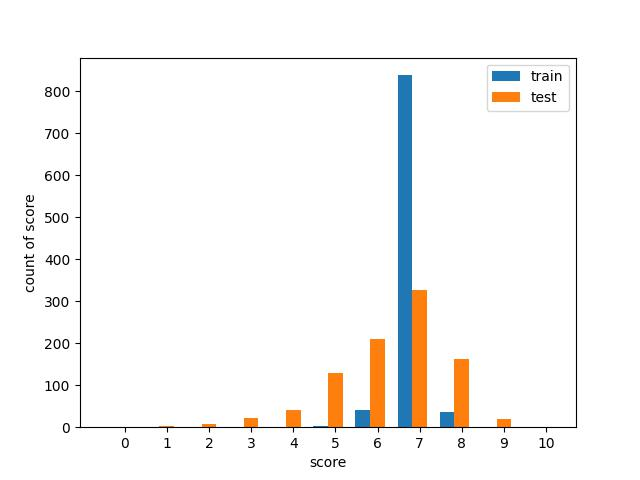
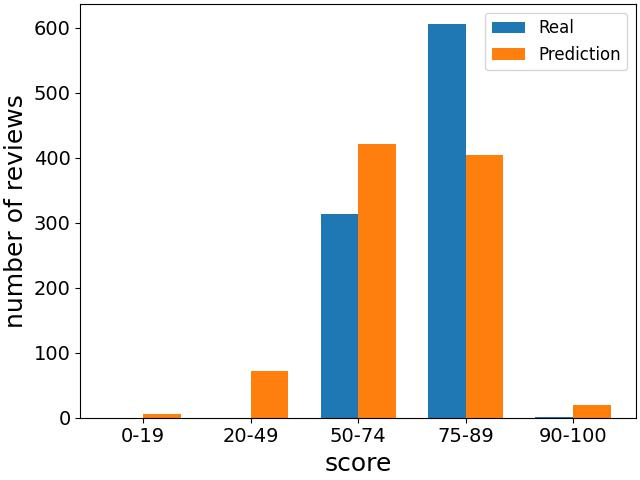
update bayes and rf

diff --git a/bayes.py b/bayes.py
@@ -1,10 +1,14 @@
+from math import pi
+import pickle
+import os
 import numpy as np
 import matplotlib.pyplot as plt
+from numpy.lib.npyio import save
 from lib.loader import get_data
 from lib.utils.common import calculate_distribution
-from sklearn.naive_bayes import MultinomialNB
+from sklearn.linear_model import BayesianRidge
 from sklearn.model_selection import KFold
-from sklearn.metrics import accuracy_score, mean_absolute_error
+from sklearn.metrics import mean_absolute_error
 
 # Formatting
 
@@ -20,13 +24,12 @@ x, y, names = get_data()
 kFold = KFold()
 
 
-def run_model(alpha, draw_plot=False):
-    model = MultinomialNB(alpha=alpha)
+def run_model(alpha_1=1e-6, alpha_2=1e-6, lambda_1=1e-6, lambda_2=1e-6, draw_plot=False):
+    model = BayesianRidge(alpha_1=alpha_1, alpha_2=alpha_2,
+                          lambda_1=lambda_1, lambda_2=lambda_2)
 
     mean_average_error_train = 0
     mean_average_error_test = 0
-    accuracy_train = 0
-    accuracy_test = 0
 
     for train_idx, test_idx in kFold.split(x):
         x_train = x[train_idx]
@@ -37,72 +40,108 @@ def run_model(alpha, draw_plot=False):
         model.fit(x_train, y_train)
 
         y_pred = model.predict(x_train)
-        mean_average_error_train = mean_average_error_train + mean_absolute_error(y_pred, y_train)
-        accuracy_train = accuracy_train + accuracy_score(y_pred, y_train)
+        mean_average_error_train = mean_average_error_train + \
+            mean_absolute_error(y_pred, y_train)
 
         y_pred = model.predict(x_test)
-        mean_average_error_test = mean_average_error_test + mean_absolute_error(y_pred, y_test)
-        accuracy_test = accuracy_test + accuracy_score(y_pred, y_test)
+        mean_average_error_test = mean_average_error_test + \
+            mean_absolute_error(y_pred, y_test)
 
     mean_average_error_train = mean_average_error_train / 5
-    mean_accuracy_train = accuracy_train / 5
-
     mean_average_error_test = mean_average_error_test / 5
-    mean_accuracy_test = accuracy_test / 5
 
     if draw_plot:
         plt.xlabel('score')
-        plt.ylabel('count of score')
+        plt.ylabel('number of reviews')
 
-        distribution = calculate_distribution(y_pred)
+        distribution, xticklables = calculate_distribution(y_pred)
         bar_range = np.array(range(len(distribution)))
-        plt.bar(bar_range-0.35/2, distribution, width=0.35,
-                label='train', tick_label=range(len(distribution)))
+        plt.bar(bar_range-0.35/2, distribution, width=0.35, label='Real')
 
-        distribution = calculate_distribution(y_test)
-        plt.bar(bar_range+0.35/2, distribution, width=0.35,
-                label='test', tick_label=range(len(distribution)))
+        distribution, xticklables = calculate_distribution(y_test)
+        bar_range = np.array(range(len(distribution)))
+        plt.bar(bar_range+0.35/2, distribution, width=0.35, label='Prediction')
 
+        plt.xticks(bar_range, xticklables)
         plt.legend()
-        plt.savefig('images/bayes_alpha=%g.jpg' % alpha)
+
+        plt.savefig('images/bayes.jpg')
         plt.clf()
 
-    return mean_average_error_train, mean_accuracy_train, mean_average_error_test, mean_accuracy_test
+
+    return mean_average_error_train, mean_average_error_test
 
 
 def main():
-    run_model(0, True)
-    run_model(0.02, True)
-    run_model(0.5, True)
-    run_model(1, True)
-    run_model(10, True)
-    run_model(100, True)
+    # alpha 1
+    alpha_1 = np.linspace(0, 100)
+    mean_average_error_train = np.zeros_like(alpha_1)
+    mean_average_error_test = np.zeros_like(alpha_1)
 
-    alpha = np.linspace(0, 100)
-    mean_average_error_train = np.zeros_like(alpha)
-    mean_average_error_test = np.zeros_like(alpha)
-    accuracy_train = np.zeros_like(alpha)
-    accuracy_test = np.zeros_like(alpha)
+    for i in range(len(alpha_1)):
+        mean_average_error_train[i], mean_average_error_test[i] = \
+            run_model(alpha_1=alpha_1[i])
 
-    for i in range(len(alpha)):
-        mean_average_error_train[i], accuracy_train[i], mean_average_error_test[i], accuracy_test[i] = \
-            run_model(alpha[i])
-
-    plt.xlabel('alpha')
+    plt.xlabel('alpha_1')
     plt.ylabel('mean average error')
-    plt.plot(alpha, mean_average_error_train, label='train')
-    plt.plot(alpha, mean_average_error_test, label='test')
+    plt.plot(alpha_1, mean_average_error_train, label='train')
+    plt.plot(alpha_1, mean_average_error_test, label='test')
     plt.legend()
-    plt.savefig('images/bayes_alpha_vs_mean_average_error.jpg')
+    plt.savefig('images/bayes_alpha_1_vs_mean_average_error.jpg')
     plt.clf()
 
-    plt.xlabel('alpha')
-    plt.ylabel('acc')
-    plt.plot(alpha, accuracy_train, label='train')
-    plt.plot(alpha, accuracy_test, label='test')
+    # alpha 2
+    alpha_2 = np.linspace(0, 100)
+    mean_average_error_train = np.zeros_like(alpha_2)
+    mean_average_error_test = np.zeros_like(alpha_2)
+
+    for i in range(len(alpha_2)):
+        mean_average_error_train[i], mean_average_error_test[i] = \
+            run_model(alpha_2=alpha_2[i])
+
+    plt.xlabel('alpha_2')
+    plt.ylabel('mean average error')
+    plt.plot(alpha_2, mean_average_error_train, label='train')
+    plt.plot(alpha_2, mean_average_error_test, label='test')
     plt.legend()
-    plt.savefig('images/bayes_alpha_vs_acc.jpg')
+    plt.savefig('images/bayes_alpha_2_vs_mean_average_error.jpg')
     plt.clf()
+
+    # lambda 1
+    lambda_1 = np.linspace(0, 100)
+    mean_average_error_train = np.zeros_like(lambda_1)
+    mean_average_error_test = np.zeros_like(lambda_1)
+
+    for i in range(len(lambda_1)):
+        mean_average_error_train[i], mean_average_error_test[i] = \
+            run_model(lambda_1[i])
+
+    plt.xlabel('lambda_1')
+    plt.ylabel('mean average error')
+    plt.plot(lambda_1, mean_average_error_train, label='train')
+    plt.plot(lambda_1, mean_average_error_test, label='test')
+    plt.legend()
+    plt.savefig('images/bayes_lambda_1_vs_mean_average_error.jpg')
+    plt.clf()
+
+    # lambda 2
+    lambda_2 = np.linspace(0, 100)
+    mean_average_error_train = np.zeros_like(lambda_2)
+    mean_average_error_test = np.zeros_like(lambda_2)
+
+    for i in range(len(lambda_2)):
+        mean_average_error_train[i], mean_average_error_test[i] = \
+            run_model(lambda_2[i])
+
+    plt.xlabel('lambda_2')
+    plt.ylabel('mean average error')
+    plt.plot(lambda_2, mean_average_error_train, label='train')
+    plt.plot(lambda_2, mean_average_error_test, label='test')
+    plt.legend()
+    plt.savefig('images/bayes_lambda_2_vs_mean_average_error.jpg')
+    plt.clf()
+
+    run_model(draw_plot=True)
 
 
 if __name__ == "__main__":

diff --git a/random_forest.py b/random_forest.py
@@ -1,10 +1,11 @@
+import pickle
 import numpy as np
 import matplotlib.pyplot as plt
 from lib.loader import get_data
 from lib.utils.common import calculate_distribution
-from sklearn.ensemble import RandomForestClassifier
+from sklearn.ensemble import RandomForestRegressor
 from sklearn.model_selection import KFold
-from sklearn.metrics import accuracy_score, mean_absolute_error
+from sklearn.metrics import mean_absolute_error
 
 # Formatting
 
@@ -21,13 +22,11 @@ x, y, names = get_data()
 kFold = KFold()
 
 
-def run_model(num, draw_plot=False):
-    model = RandomForestClassifier(n_estimators=num, n_jobs=-1)
+def run_model(num=100, draw_plot=False):
+    model = RandomForestRegressor(n_estimators=num, n_jobs=-1)
 
     mean_average_error_train = 0
     mean_average_error_test = 0
-    accuracy_train = 0
-    accuracy_test = 0
 
     for train_idx, test_idx in kFold.split(x):
         x_train = x[train_idx]
@@ -38,54 +37,45 @@ def run_model(num, draw_plot=False):
         model.fit(x_train, y_train)
 
         y_pred = model.predict(x_train)
-        mean_average_error_train = mean_average_error_train + mean_absolute_error(y_pred, y_train)
-        accuracy_train = accuracy_train + accuracy_score(y_pred, y_train)
+        mean_average_error_train = mean_average_error_train + \
+            mean_absolute_error(y_pred, y_train)
 
         y_pred = model.predict(x_test)
-        mean_average_error_test = mean_average_error_test + mean_absolute_error(y_pred, y_test)
-        accuracy_test = accuracy_test + accuracy_score(y_pred, y_test)
+        mean_average_error_test = mean_average_error_test + \
+            mean_absolute_error(y_pred, y_test)
 
     mean_average_error_train = mean_average_error_train / 5
-    mean_accuracy_train = accuracy_train / 5
-
     mean_average_error_test = mean_average_error_test / 5
-    mean_accuracy_test = accuracy_test / 5
 
     if draw_plot:
         plt.xlabel('score')
-        plt.ylabel('count of score')
+        plt.ylabel('number of reviews')
 
-        distribution = calculate_distribution(y_pred)
+        distribution, xticklables = calculate_distribution(y_pred)
         bar_range = np.array(range(len(distribution)))
-        plt.bar(bar_range-0.35/2, distribution, width=0.35,
-                label='train', tick_label=range(len(distribution)))
+        plt.bar(bar_range-0.35/2, distribution, width=0.35, label='Real')
 
-        distribution = calculate_distribution(y_test)
-        plt.bar(bar_range+0.35/2, distribution, width=0.35,
-                label='test', tick_label=range(len(distribution)))
+        distribution, xticklables = calculate_distribution(y_test)
+        bar_range = np.array(range(len(distribution)))
+        plt.bar(bar_range+0.35/2, distribution, width=0.35, label='Prediction')
 
+        plt.xticks(bar_range, xticklables)
         plt.legend()
+
         plt.savefig('images/rf_num=%g.jpg' % num)
         plt.clf()
 
-    return mean_average_error_train, mean_accuracy_train, mean_average_error_test, mean_accuracy_test
+    return mean_average_error_train, mean_average_error_test
 
 
 def main():
-    run_model(10, True)
-    run_model(20, True)
-    run_model(50, True)
-    run_model(100, True)
-
     number = range(1, 101, 10)
 
     mean_average_error_train = np.zeros_like(number, np.float)
     mean_average_error_test = np.zeros_like(number, np.float)
-    accuracy_train = np.zeros_like(number, np.float)
-    accuracy_test = np.zeros_like(number, np.float)
 
     for i in range(len(number)):
-        mean_average_error_train[i], accuracy_train[i], mean_average_error_test[i], accuracy_test[i] = \
+        mean_average_error_train[i], mean_average_error_test[i] = \
             run_model(number[i])
 
     plt.xlabel('num of trees')
@@ -96,13 +86,7 @@ def main():
     plt.savefig('images/rf_num_vs_mean_average_error.jpg')
     plt.clf()
 
-    plt.xlabel('num of trees')
-    plt.ylabel('acc')
-    plt.plot(number, accuracy_train, label='train')
-    plt.plot(number, accuracy_test, label='test')
-    plt.legend()
-    plt.savefig('images/rf_num_vs_acc.jpg')
-    plt.clf()
+    run_model(draw_plot=True)
 
 
 if __name__ == "__main__":

diff --git a/lib/utils/common.py b/lib/utils/common.py
@@ -2,9 +2,23 @@ import numpy as np
 
 
 def calculate_distribution(y):
-    dis = np.zeros(11, np.int)
+    dis = np.zeros(5, int)
+
+    xticklables = [
+        '0-19', '20-49', '50-74', '75-89', '90-100'
+    ]
 
     for value in y:
-        dis[int((value - 1)/10)] = dis[int((value - 1)/10)] + 1
+        if (value - 1) >= 90:
+            tag = 4
+        elif (value - 1) >= 75:
+            tag = 3
+        elif (value - 1) >= 50:
+            tag = 2
+        elif (value - 1) >= 20:
+            tag = 1
+        else:
+            tag = 0
+        dis[tag] = dis[tag] + 1
 
-    return dis
+    return dis, xticklables
